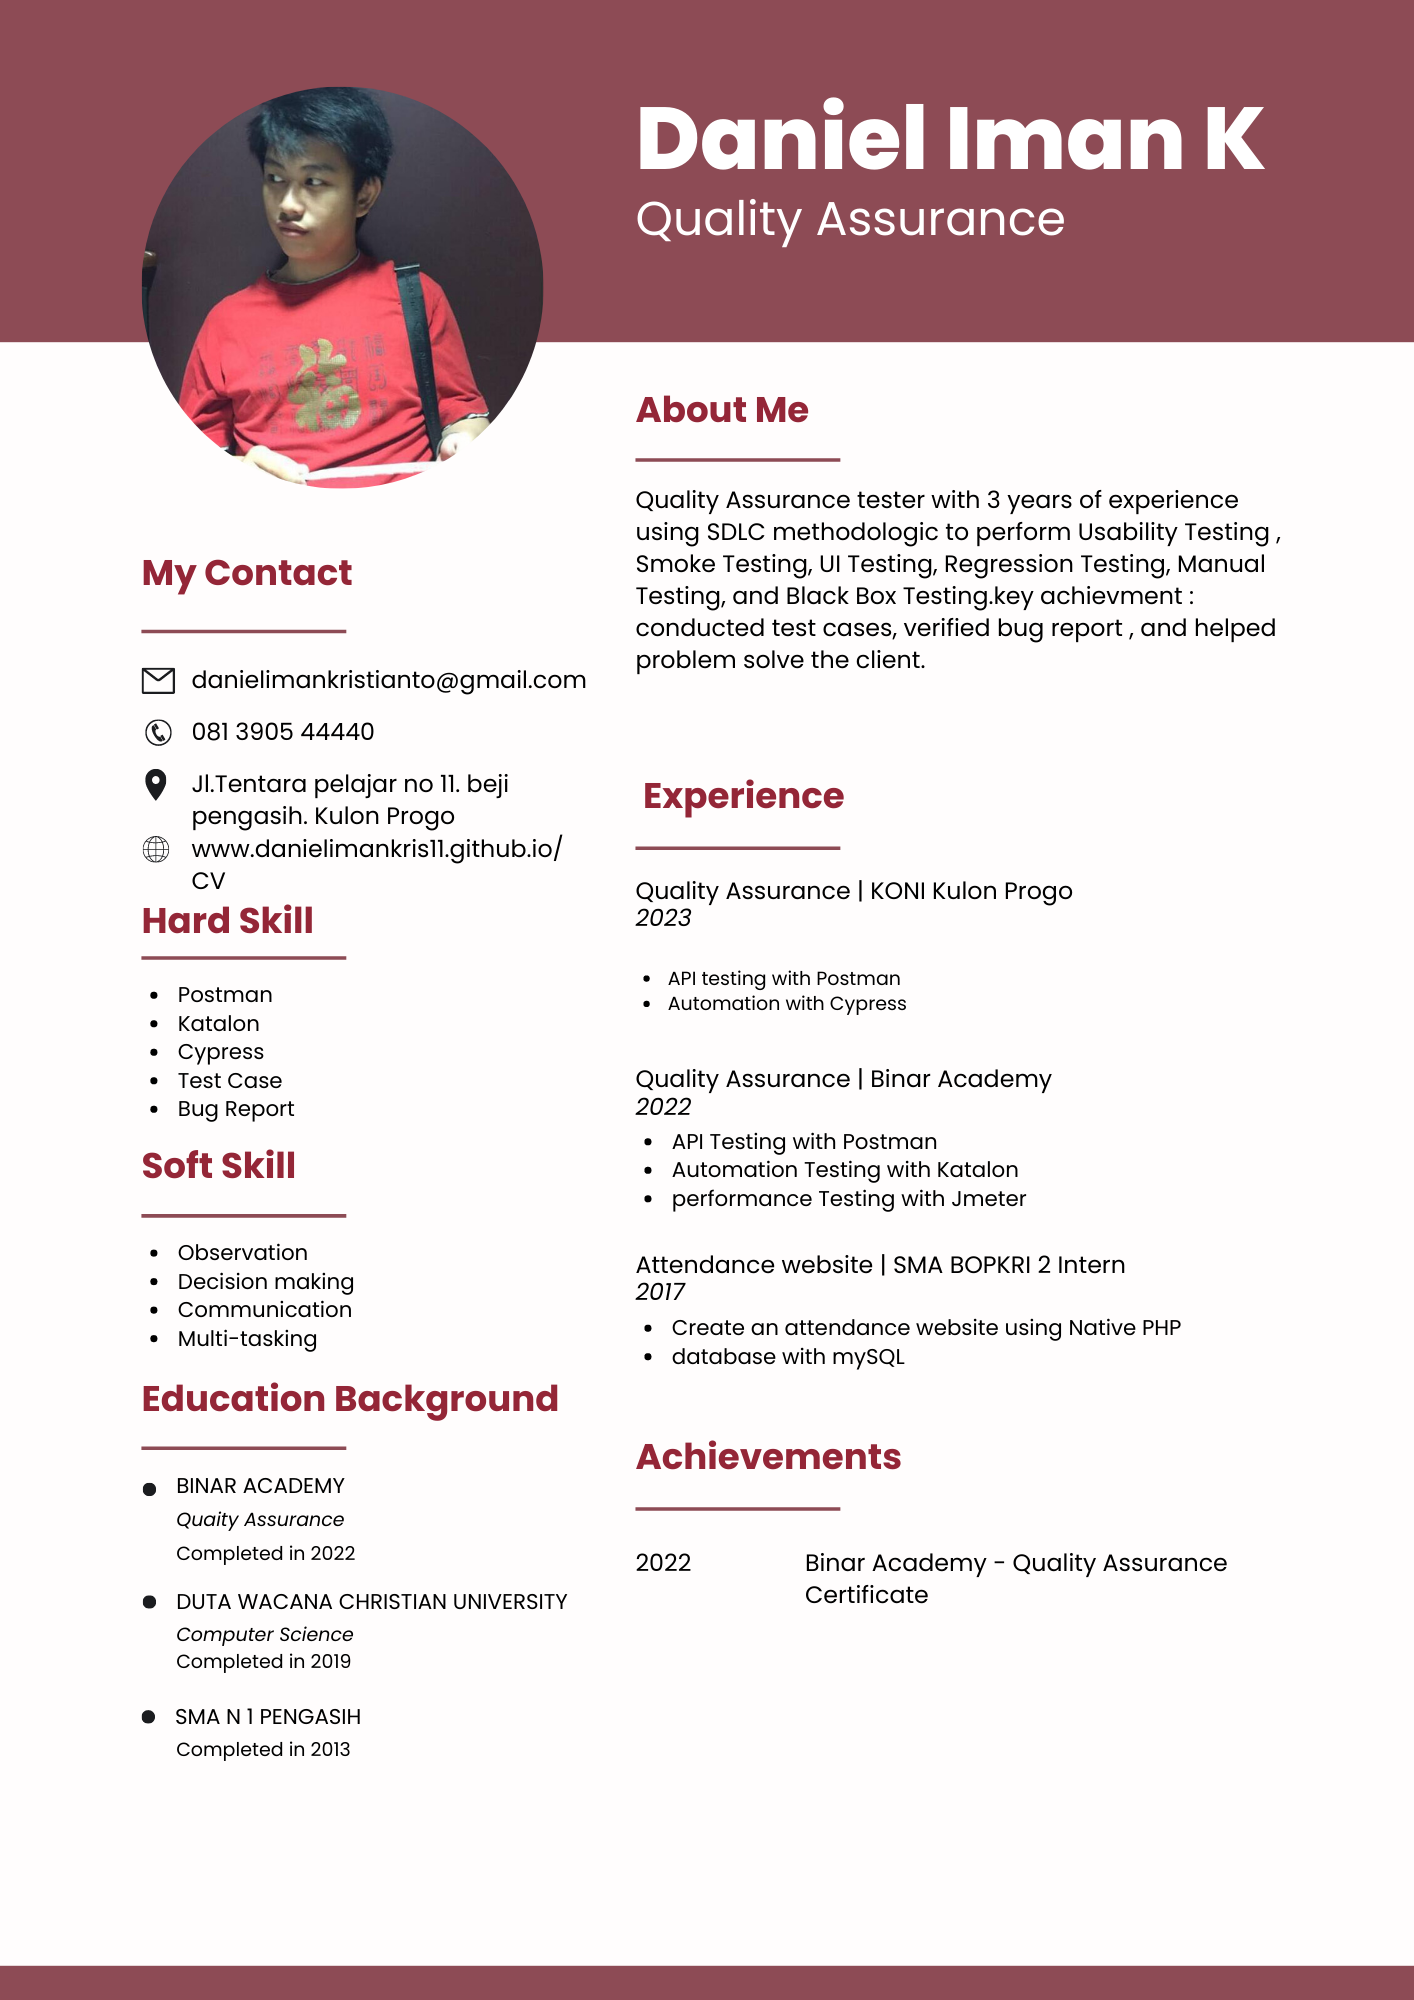
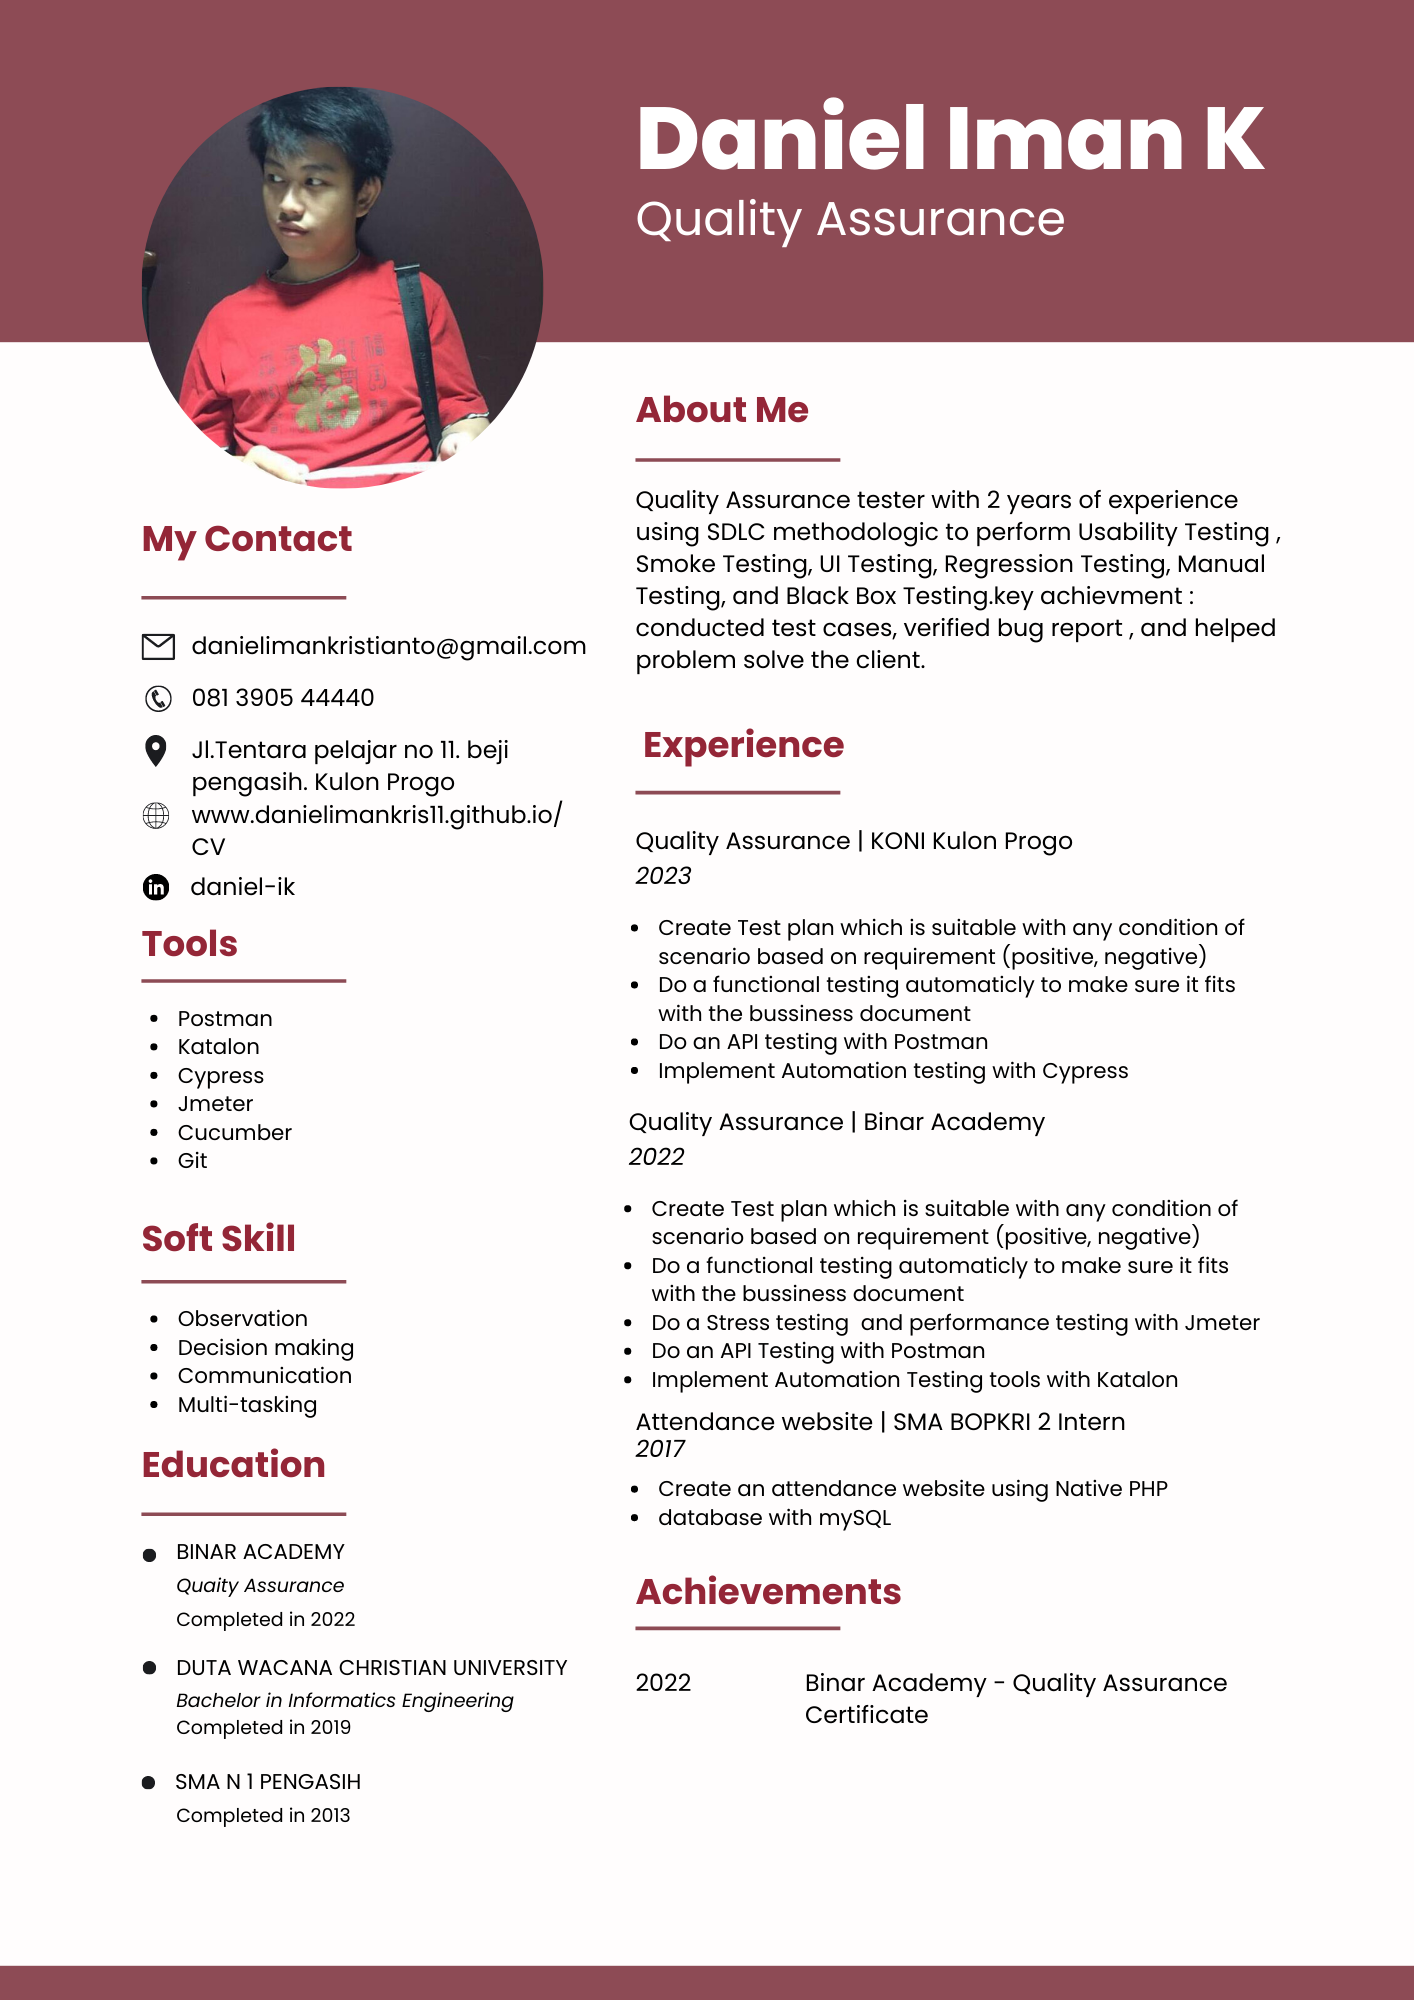
update edu

diff --git a/index.html b/index.html
@@ -159,7 +159,7 @@
                             <P class="subtitle">Quality Assurance Bootcamp</P>
                             <hr>
                             <h6 class="title text-danger">2013 - 2019</h6>
-                            <P>Computer science</P>
+                            <P>Bachelor in Informatic Engineering</P>
                             <P class="subtitle">Duta Wacana Christian University</P>
                             <hr>
                             <h6 class="title text-danger">2010 - 2013</h6>
